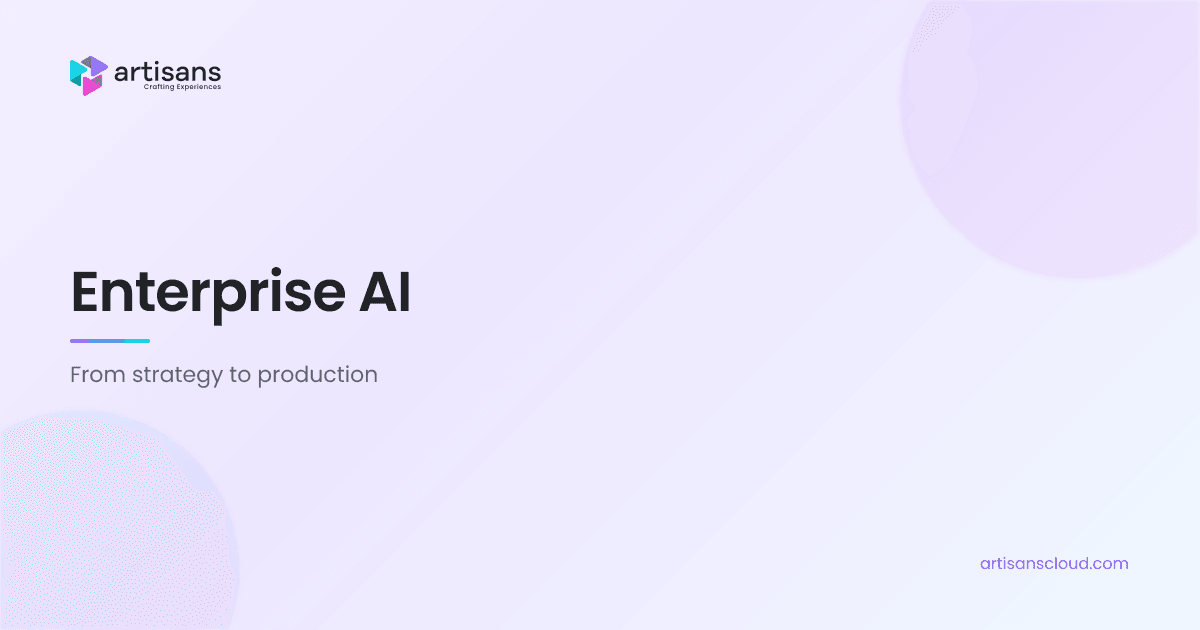
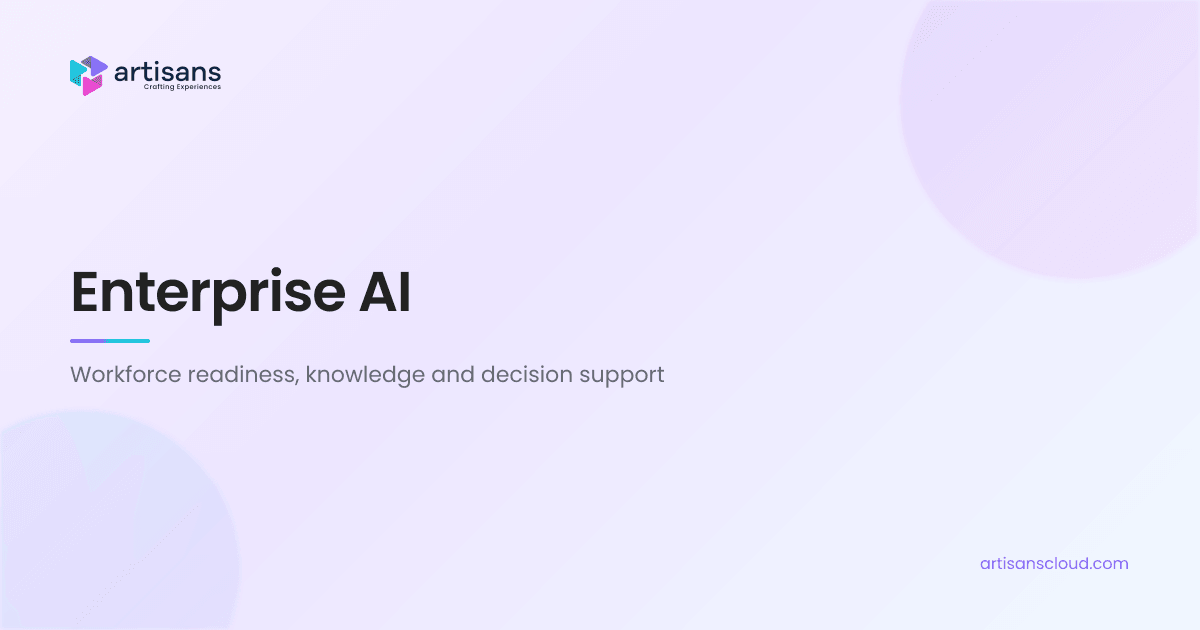
chore: update enterprise AI OG image subtitle text and regenerate asset

diff --git a/scripts/generate-og-images.js b/scripts/generate-og-images.js
@@ -51,7 +51,7 @@ const PAGES = [
   {
     file: 'enterprise-ai',
     title: 'Enterprise AI',
-    subtitle: 'From strategy to production',
+    subtitle: 'Workforce readiness, knowledge and decision support',
   },
   {
     file: 'data-intelligence',
